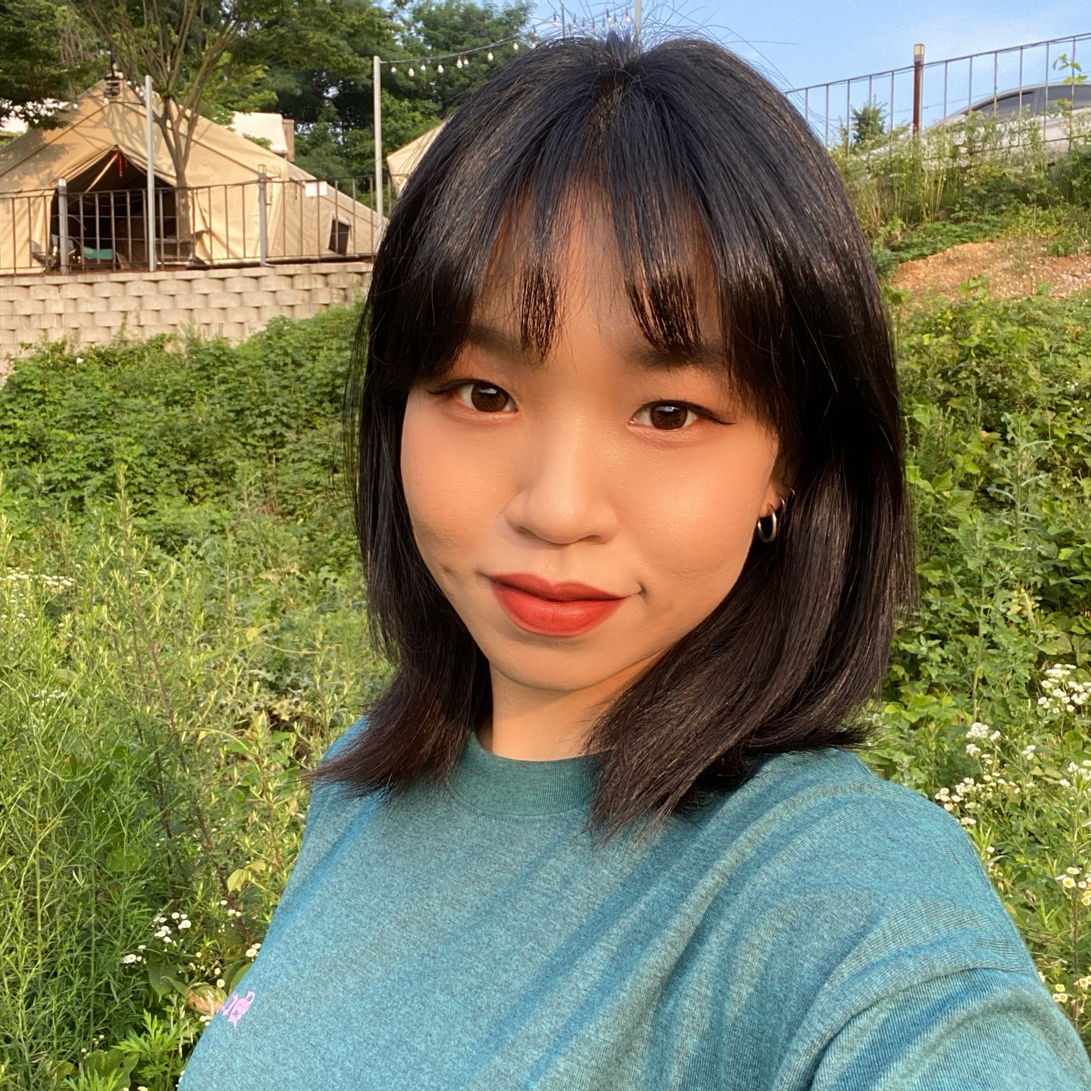
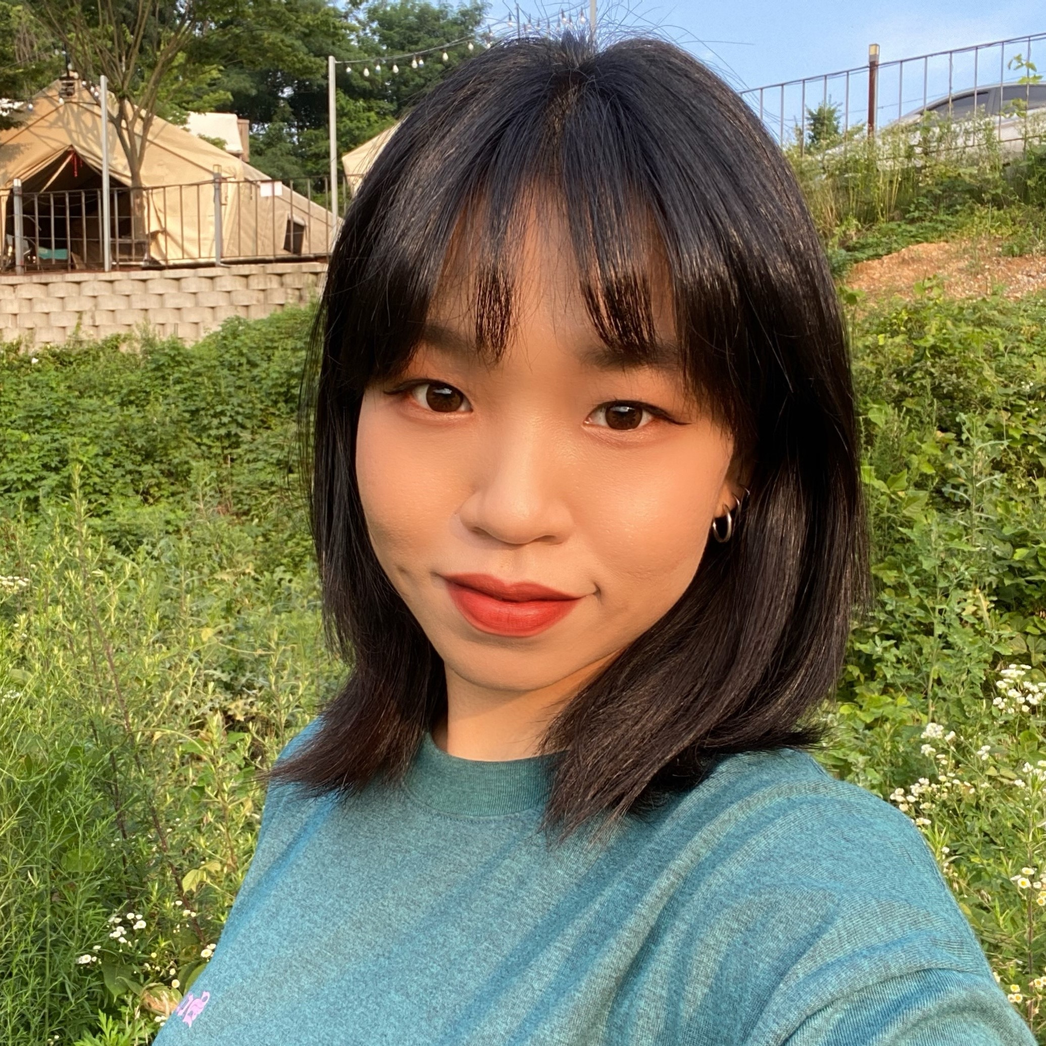
임원진 이미지 교체

diff --git a/executives2.html b/executives2.html
@@ -45,7 +45,7 @@
 					<article class="box">
 						<header>
 							<h2>임원진</h2>
-							<a id= "season" class="button alt" onclick="change_Season()">시즌중</a> <a id ="not_season" class="button alt" onclick="change_notSeason()">비시즌</a>
+							<a href="executives.html" id= "season" class="button alt">시즌중</a> <a id ="not_season" class="button alt" onclick="window.location.reload()">비시즌</a>
 							<p>-MANIA의 임원진을 소개합니다.-<br>
 								<span id="manual"> 비시즌의 모습이 궁금하다면 클릭! </span>
 							</p>
@@ -53,7 +53,7 @@
 						</header>
 						<div class = "content">
 							<div class = "executivesbox">
-								<img id="dosik" src="images/임원진/윤도식.jpg" >
+								<img id="dosik" src="images/임원진/도식2.jpg" >
 								<div class="exwhat">
 									<div class = "exname">회장: 윤도식</div>
 									<div class = "exdetail">
@@ -65,7 +65,7 @@
 								
 							</div>
 							<div class = "executivesbox">
-								<img src="images/임원진/김재현.jpg" >
+								<img src="images/임원진/재현2.jpg" >
 								<div class="exwhat">
 									<div class = "exname">명륜 부회장: 김재현</div>
 									<div class = "exdetail"><p>
@@ -77,7 +77,7 @@
 								
 							</div>
 							<div class = "executivesbox">
-								<img src="images/임원진/김지수.jpg" >
+								<img src="images/임원진/지수2.jpg" >
 								<div class="exwhat">
 									<div class = "exname">율전 부회장: 김지수</div>
 									<div class = "exdetail">
@@ -87,7 +87,7 @@
 								</div>								
 							</div>
 							<div class = "executivesbox">
-								<img src="images/임원진/이승빈.jpg" >
+								<img src="images/임원진/승빈2.jpg" >
 								<div class="exwhat">
 									<div class = "exname">홍보부장: 이승빈</div>
 									<div class = "exdetail">
@@ -97,7 +97,7 @@
 								</div>								
 							</div>
 							<div class = "executivesbox">
-								<img src="images/임원진/최재영.jpg" >
+								<img src="images/임원진/재영2.jpg" >
 								<div class="exwhat">
 									<div class = "exname">총무: 최재영</div>
 									<div class = "exdetail">

diff --git a/assets/js/executive.js b/assets/js/executive.js
@@ -1,0 +1,30 @@
+var exe_img = document.querySelectorAll(".executivesbox img")
+const sea_btn = document.querySelector("#season")
+const not_btn = document.querySelector("#not_season")
+
+console.log(exe_img)
+
+function change_Season(){
+    sea_btn.style.backgroundColor ="#948f8f"
+    not_btn.style.backgroundColor= "transparent";
+
+    exe_img[0].src ="images/임원진/도식2.jpg"
+    exe_img[1].src ="images/임원진/재현2.JPG"
+    exe_img[2].src ="images/임원진/지수2.JPG"
+    exe_img[3].src ="images/임원진/승빈3.JPG"
+    exe_img[4].src ="images/임원진/재영2.JPG"
+    
+}
+
+function change_notSeason(){
+    not_btn.style.backgroundColor ="#948f8f"
+    sea_btn.style.backgroundColor= "transparent";
+    
+    exe_img[0].src ="images/임원진/윤도식.jpg"
+    exe_img[1].src ="images/임원진/김재현.JPG"
+    exe_img[2].src ="images/임원진/김지수.JPG"
+    exe_img[3].src ="images/임원진/이승빈.JPG"
+    exe_img[4].src ="images/임원진/최재영.JPG"
+}
+
+change_Season()

diff --git a/assets/css/executives.css b/assets/css/executives.css
@@ -4,6 +4,22 @@
     margin-left: -14px;
 }
 
+    header h2{
+        display: inline;
+    }
+
+    header .button{
+        display: inline-block;
+        position: relative;
+        left: 65%;
+        margin-left: 8px;
+    }
+
+    header #manual{
+        font-size: 14px;
+        margin-left: 1.5rem;
+    }
+
 .executivesbox {
     position: relative;
     width: 100%;
@@ -33,7 +49,7 @@
     height: 200px;
     margin-left:20% ;
 }
-
+    
 .exname {
     font-size: 23px;
     margin-bottom: 5%;
